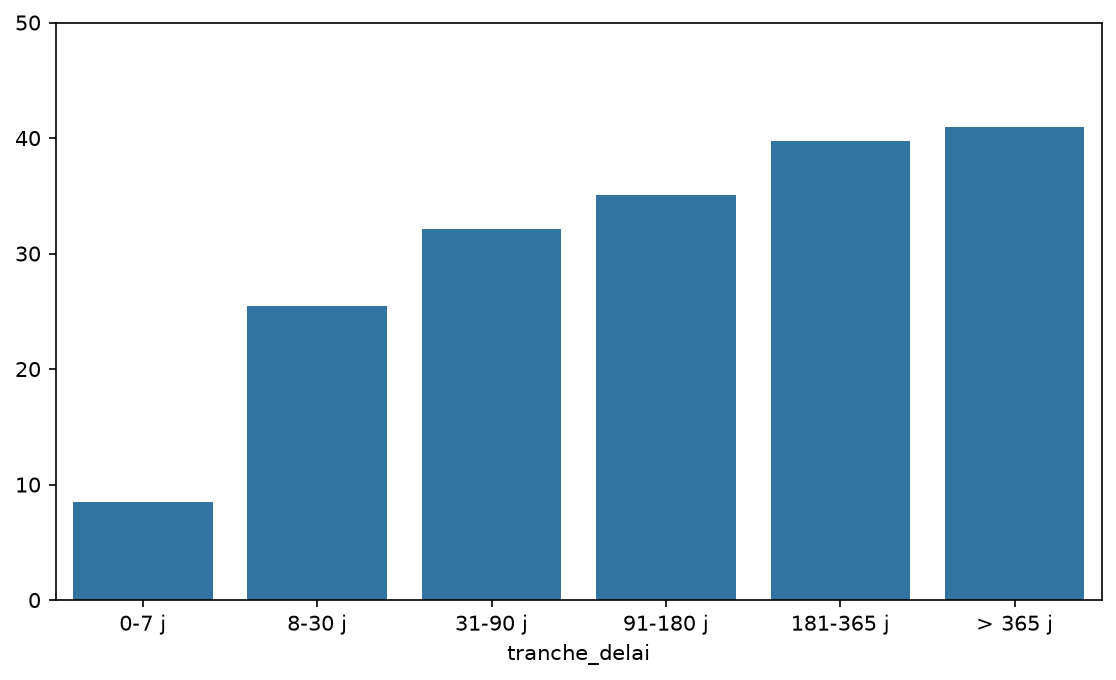
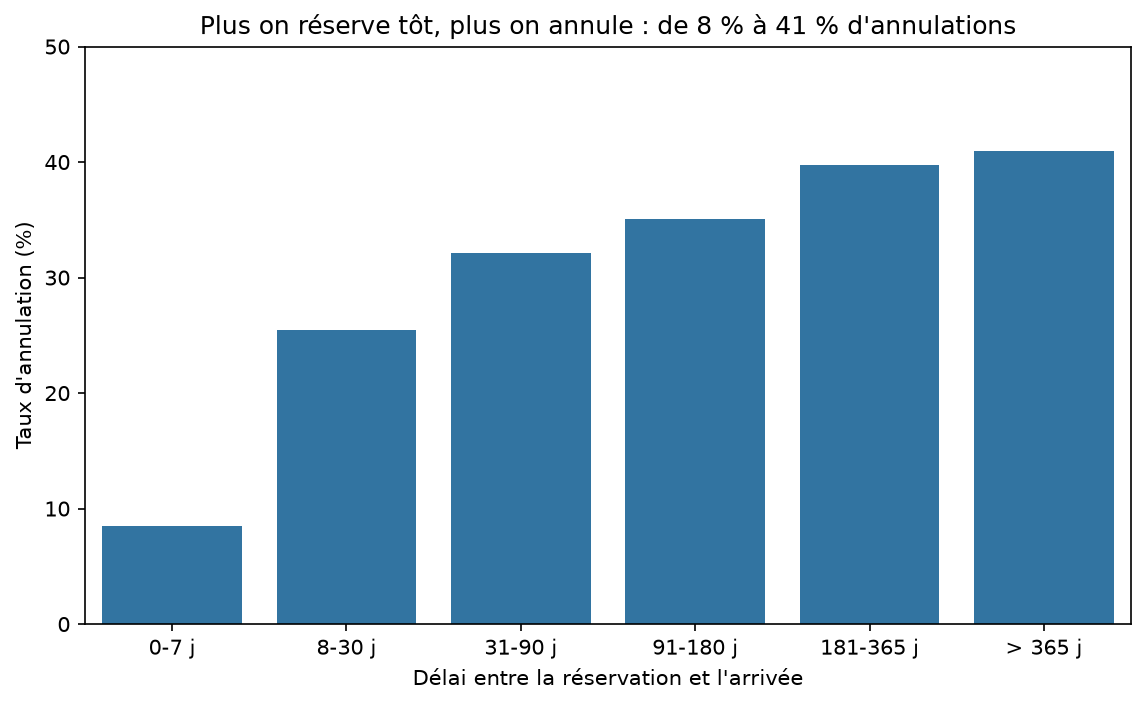
Corrige la relecture : figure Q3, journal de nettoyage, README
- Régénère la figure Q3 (titre et libellés d'axes manquants)
- Ajoute la section 9 du journal (180 réservations vides)
- Harmonise « Inconnue » entre le code et le texte
- Corrige le chiffre de fidélité Q5 dans le README
- Ré-exécute 03_analyse dans l'ordre

diff --git a/README.md b/README.md
@@ -19,7 +19,6 @@ nuitées dans deux hôtels (un hôtel de ville et un hôtel de villégiature) ?
 
 ## Ordre des notebooks
 
-
 À exécuter dans cet ordre (le 02 crée le fichier nettoyé lu par le 03) :
 
 1. `notebooks/01_chargement.ipynb` : chargement des données et premier contrôle (types, valeurs manquantes)
@@ -34,7 +33,7 @@ Après nettoyage : **86 626 réservations**, 33 colonnes.
 - **Q2 :** mai est le mois le plus chargé (en moyenne par an), mais août est le plus cher (152 € par nuit contre 71 € en janvier).
 - **Q3 :** plus le délai de réservation est long, plus le taux d'annulation monte, de 8,5 % (moins d'une semaine) à 41,0 % (plus d'un an).
 - **Q4 :** les agences en ligne (118,9 €) et la vente directe (118,1 €) rapportent le plus par nuit.
-- **Q5 :** le Portugal fait environ 31 % des réservations et ses clients sont les plus fidèles (9,9 % déjà venus, contre moins de 1,2 % pour les autres pays du top 10).
+- **Q5 :** le Portugal fait environ 31 % des réservations et ses clients sont les plus fidèles (9,9 % déjà venus, contre 0,4 % à 1,2 % pour les autres pays du top 10).
 
 ![Taux d'annulation par hôtel](figures/q1_annulation_hotel.png)
 ![Saisonnalité des réservations et des prix](figures/q2_saisonnalite.png)
